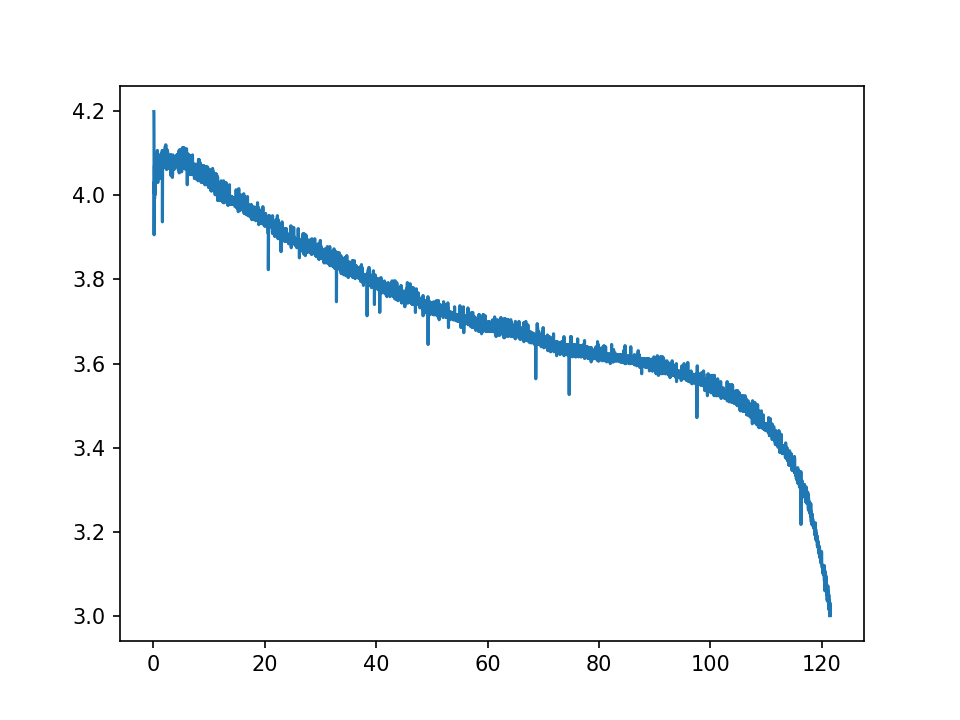
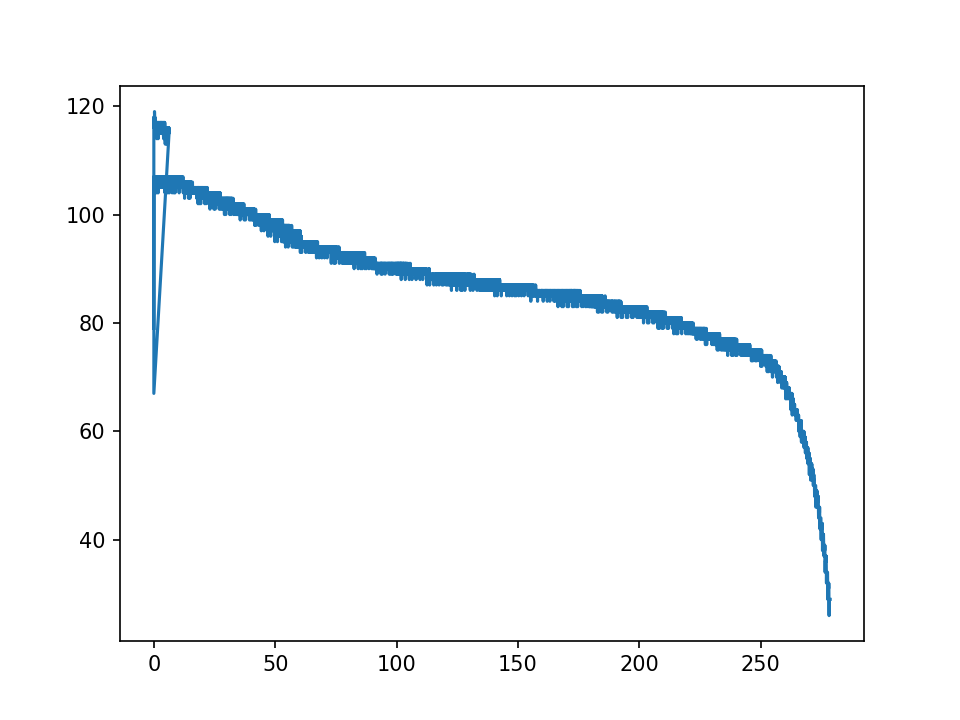
some battery savings happening

diff --git a/logparse.py b/logparse.py
@@ -7,13 +7,17 @@ from housepy import chart
 ts = []
 bats = []
 
-with open("esp_link.log") as f:
+with open("output.txt") as f:
     for line in f:
-        t = float(line.split("[T ")[-1].split("]")[0]) / 60
-        bat = int((float(line.split("BAT ")[-1].split("%")[0]) * 1024))
-        bat = (((bat - 2724) / (3622 - 2724)) * 1.2) + 3.0
-        ts.append(t)
-        bats.append(bat)
+        try:
+            t = float(line.split("[T ")[-1].split("]")[0]) / 60
+            # bat = int((float(line.split("BAT ")[-1].split("%")[0]) * 1024))
+            # bat = (((bat - 2724) / (3622 - 2724)) * 1.2) + 3.0
+            bat = int(line.split("BAT ")[-1].split(']')[0])
+            ts.append(t)
+            bats.append(bat)
+        except Exception as e:
+            pass
 
 data = np.array(list(zip(ts, bats)))
 
